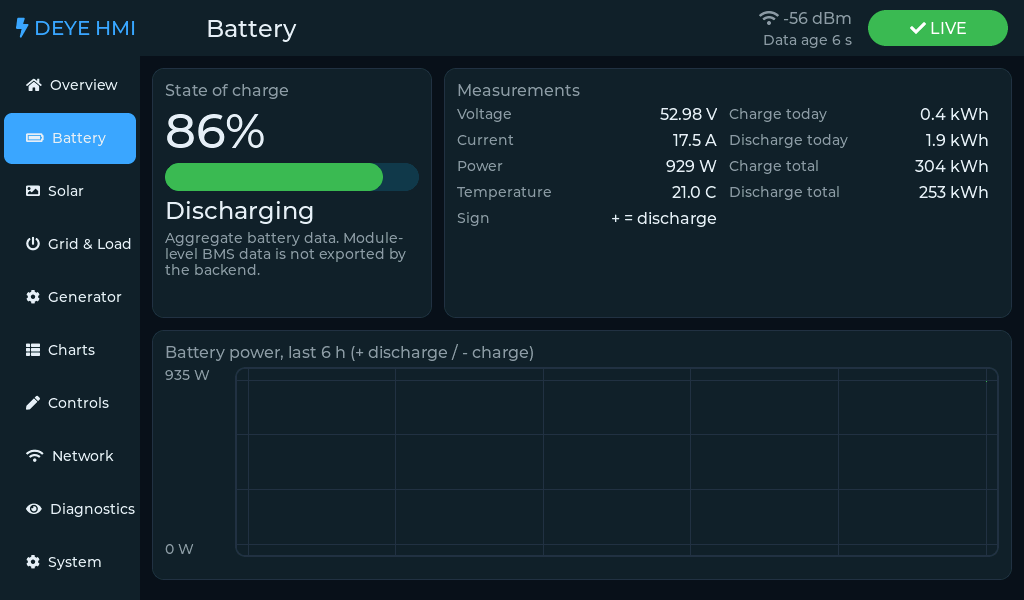
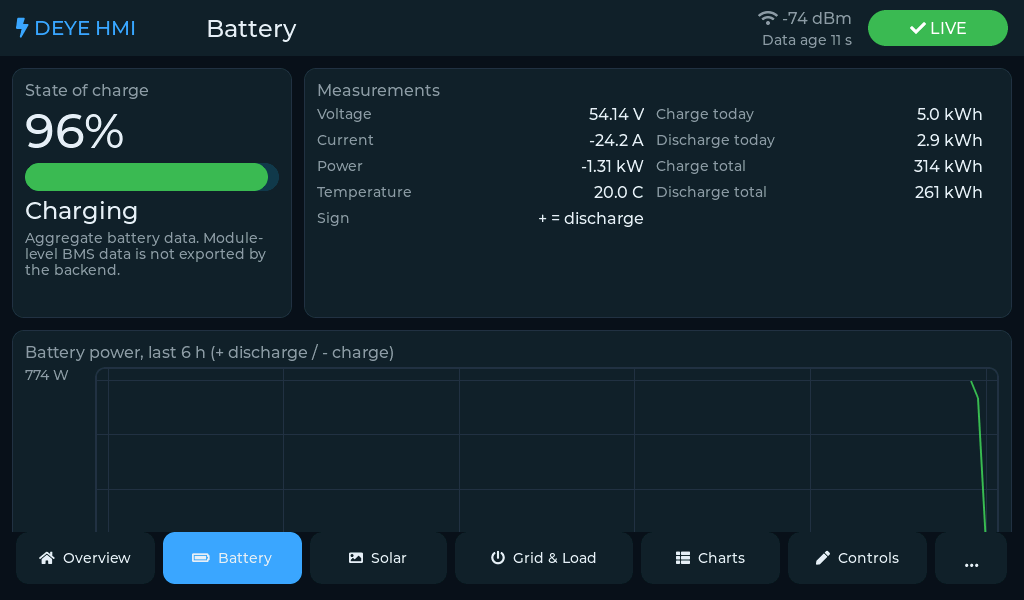
docs: refresh device screen captures

diff --git a/docs/screenshots.md b/docs/screenshots.md
@@ -29,7 +29,8 @@ is allocated; no continuous capture loop runs.
 Files in `docs/screenshots/` are real captures from the 1024x600 board with
 live inverter telemetry. `overview.png` (on battery) was replaced on
 2026-11-21 after flashing the new layout; `overview-grid.png` (on grid) was
-captured later the same day. The other captures are from 2026-11-20.
+captured later the same day. Battery, Solar, Grid & Load, and Charts were also
+recaptured from the running device on 2026-11-21.
 `build-ui/screens/` contains separate host simulations and is not published.
 
 This service has no authentication or TLS. Use it on a trusted LAN only, or

diff --git a/README.md b/README.md
@@ -19,8 +19,8 @@ captured after flashing the new layout on 2026-11-21.
 |---|---|
 | ![Overview on battery](docs/screenshots/overview.png) | ![Overview on grid](docs/screenshots/overview-grid.png) |
 
-The remaining captures below show the detailed screens from 2026-11-20;
-they are still useful as detailed views of the same telemetry.
+The detailed screens below were recaptured from the updated interface on
+2026-11-21.
 
 | Battery | Solar |
 |---|---|
